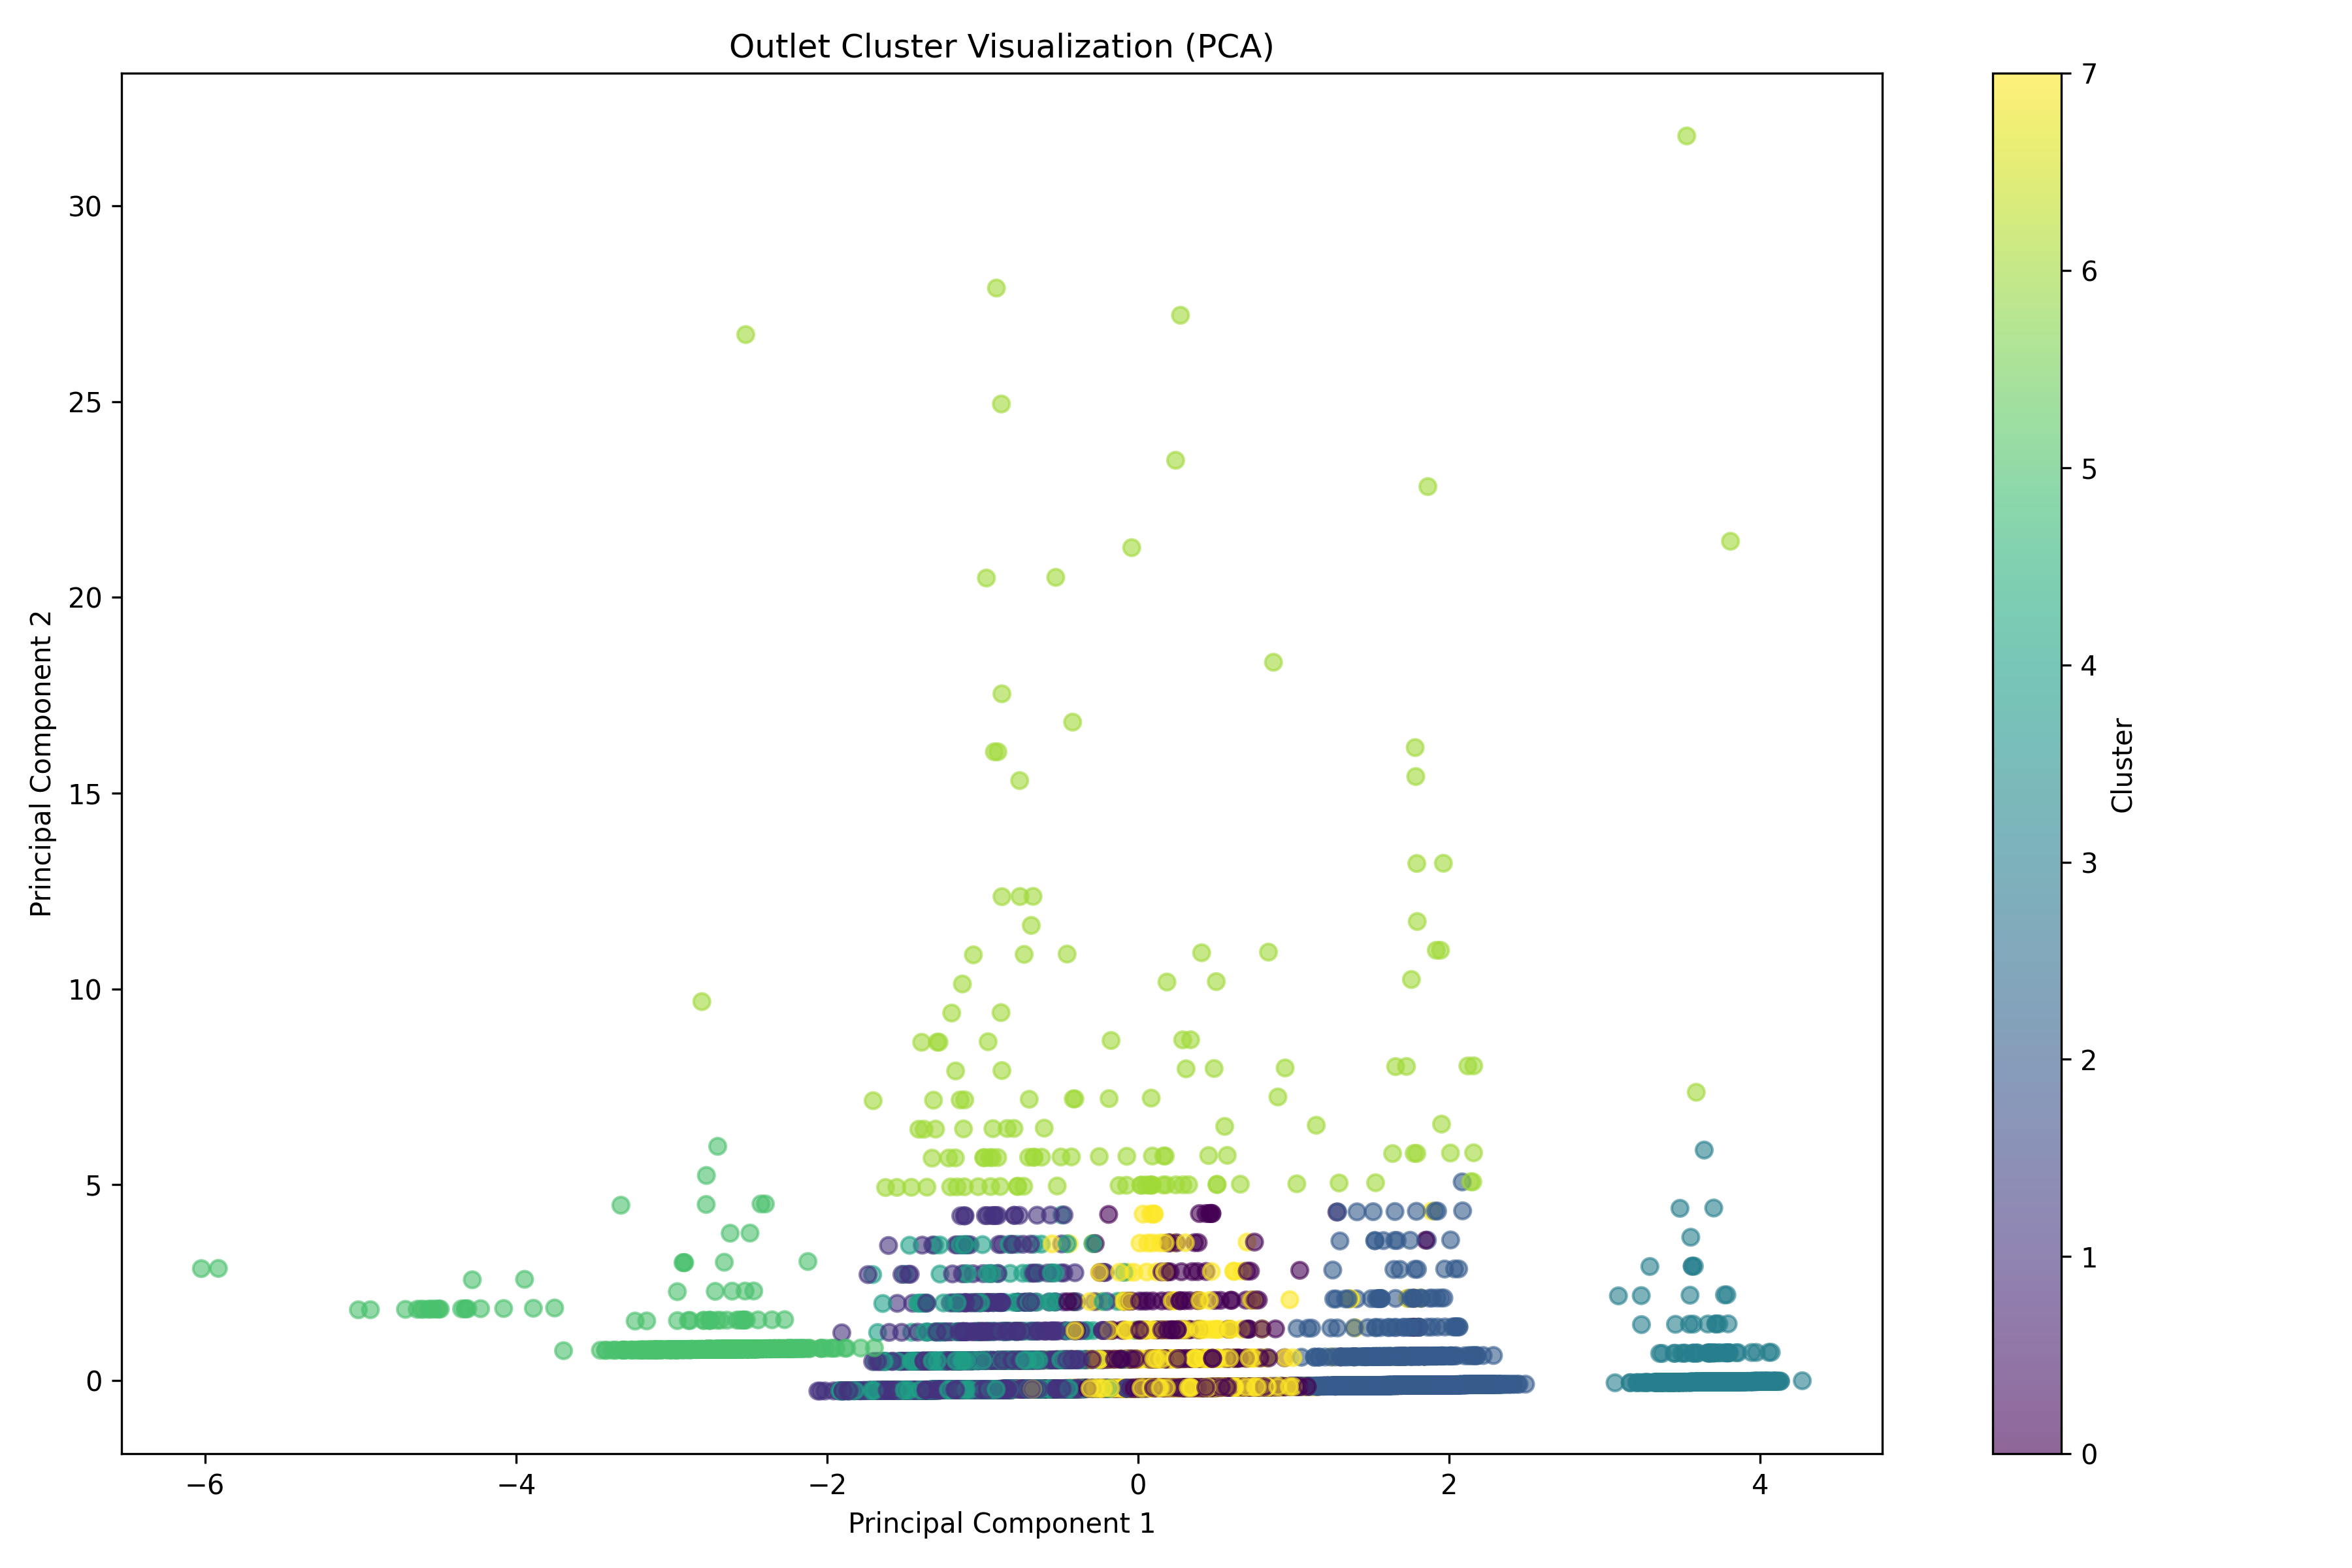
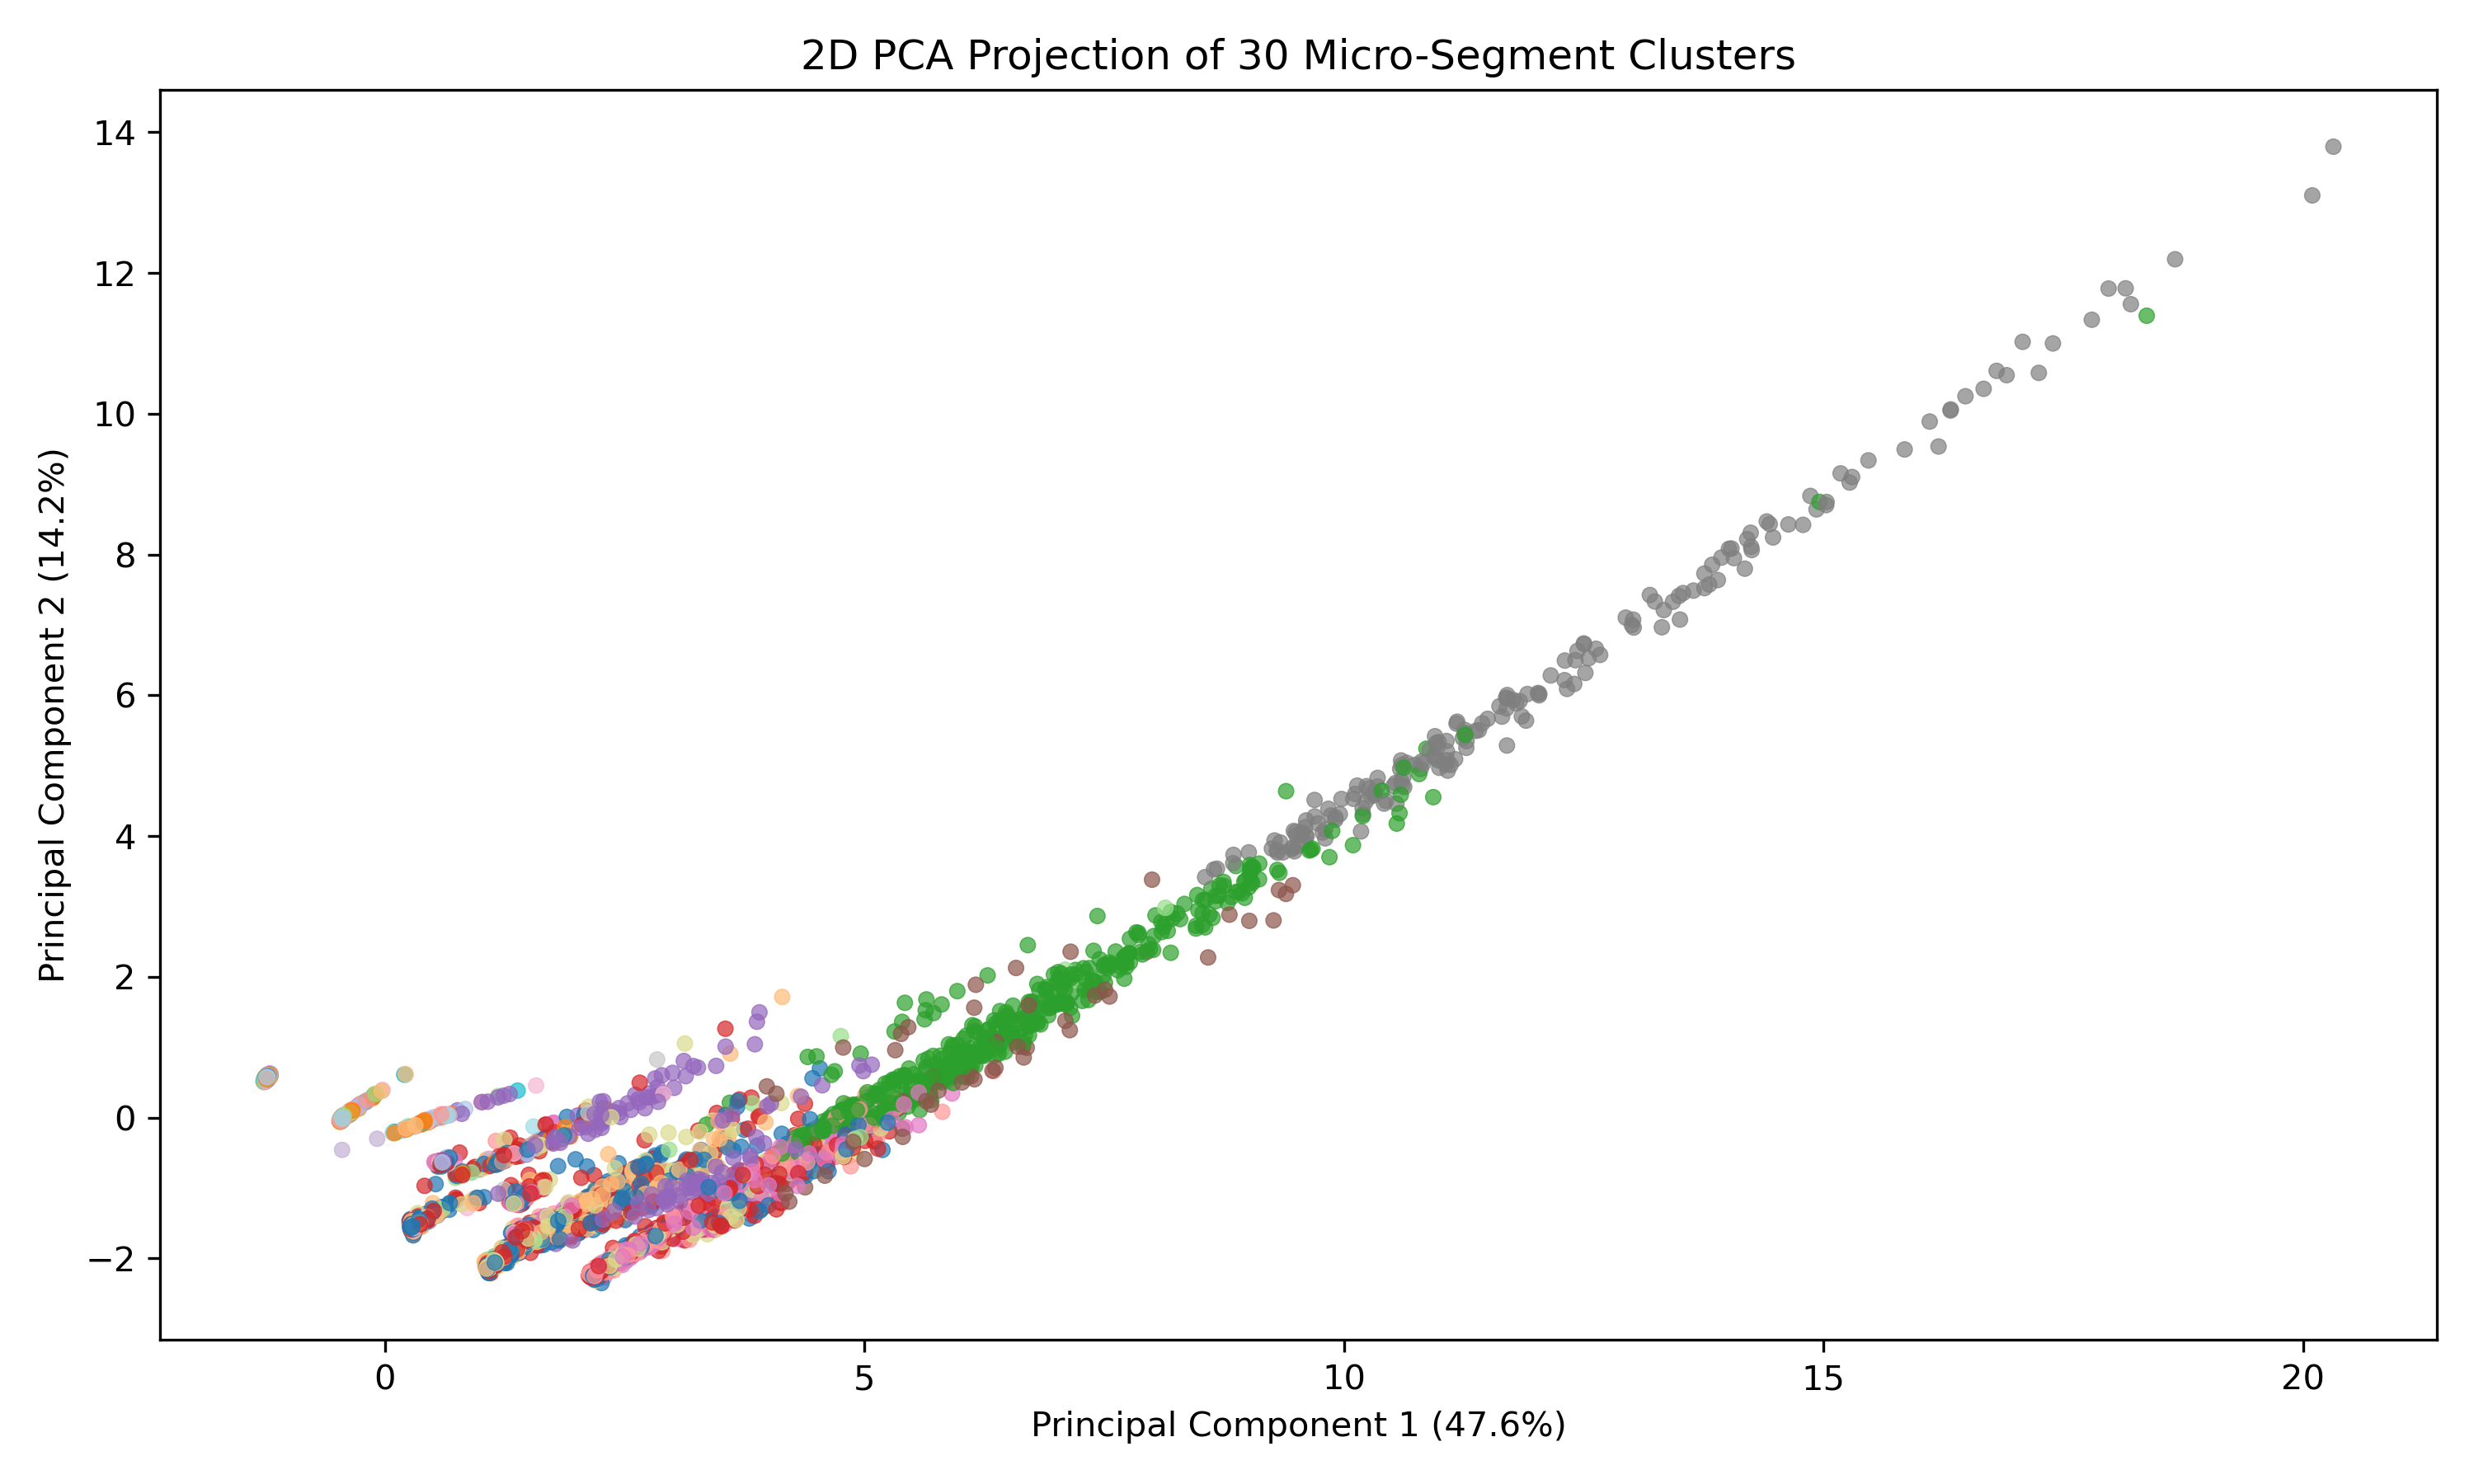
feat: integrate PCA clustering analysis and expand final report sections with improved data quality documentation

diff --git a/generate_true_pca.py b/generate_true_pca.py
@@ -1,0 +1,76 @@
+import pandas as pd
+import numpy as np
+from sklearn.decomposition import PCA
+from sklearn.preprocessing import StandardScaler
+import matplotlib.pyplot as plt
+import seaborn as sns
+from pathlib import Path
+
+print("Loading model baseline output...")
+# Load the data generated by baseline_kmeans.py which has Cluster_ID (k=30)
+df = pd.read_parquet("data/gold/model_baseline_output.parquet")
+
+# Features used for clustering (same as baseline_kmeans.py)
+feature_cols = [
+    "poi_total_catchment",
+    "poi_driver_catchment",
+    "poi_cannibal_risk",
+    "Tuition_Weekend_Surge",
+    "Tourist_Peak_Multiplier",
+    "Sports_Big_Match_Spike",
+    "Health_Catchment_Spike",
+    "Number_of_Weekends",
+    "Holiday_Count",
+    "Has_High_Footfall_Catchment",
+    "Has_Cannibalization_Risk"
+]
+
+print("Preprocessing and scaling...")
+# We must aggregate to Outlet level since PCA is per outlet
+outlet_df = df.groupby("Outlet_ID")[feature_cols].mean().fillna(0)
+
+# Add the cluster ID (it should be the same for the outlet)
+cluster_map = df.groupby("Outlet_ID")["Cluster_ID"].first()
+outlet_df = outlet_df.join(cluster_map)
+
+# Also get Total Volume to show bubble size or something (optional)
+vol_map = df.groupby("Outlet_ID")["Total_Volume"].sum()
+outlet_df = outlet_df.join(vol_map.rename("Total_Volume_Sum"))
+
+scaler = StandardScaler()
+X_scaled = scaler.fit_transform(outlet_df[feature_cols])
+
+print("Running PCA...")
+pca = PCA(n_components=2)
+X_pca = pca.fit_transform(X_scaled)
+
+outlet_df["PCA1"] = X_pca[:, 0]
+outlet_df["PCA2"] = X_pca[:, 1]
+
+print("Plotting...")
+plt.figure(figsize=(10, 6))
+
+# We have 30 clusters, so using a qualitative colormap
+scatter = sns.scatterplot(
+    data=outlet_df,
+    x="PCA1",
+    y="PCA2",
+    hue="Cluster_ID",
+    palette="tab20",  # tab20 has 20 colors, will repeat but looks good
+    s=20,
+    alpha=0.7,
+    edgecolor=None,
+    legend=False # 30 clusters is too many for a legend
+)
+
+plt.title("2D PCA Projection of 30 Micro-Segment Clusters")
+plt.xlabel(f"Principal Component 1 ({pca.explained_variance_ratio_[0]*100:.1f}%)")
+plt.ylabel(f"Principal Component 2 ({pca.explained_variance_ratio_[1]*100:.1f}%)")
+
+# Ensure output directory exists
+out_dir = Path("reports/figures")
+out_dir.mkdir(parents=True, exist_ok=True)
+
+plt.tight_layout()
+plt.savefig(out_dir / "cluster_pca.png", dpi=300)
+print(f"Saved true PCA plot to {out_dir / 'cluster_pca.png'}")

diff --git a/output/InsightAI_Final_Report.tex b/output/InsightAI_Final_Report.tex
@@ -45,12 +45,13 @@
 The first stage of our pipeline focused on Data Engineering (DE) checks and "Data Exorcism" by identifying and neutralizing artifacts in the SFA (Sales Force Automation) data that contaminate demand signals. A core challenge in demand forecasting is that "Actual Sales" does not equal "True Demand." Sales data is merely the intersection of demand and supply. 
 
 \subsection{System Anomalies: Ghosts and Negative Returns}
-We identified "System Ghosts" which are extreme variance spikes caused by data upload failures or negative return adjustments that dropped net monthly sales to exactly zero. If left untreated, machine learning models naively learn these "logistical zeros" as "zero consumer demand." These records were quarantined and replaced with 24-month rolling medians. To validate our cleaning process, we utilized the \textbf{Coefficient of Variation (CV)}. Outlets with an unnaturally low CV over 24 months were flagged as "Censored," indicating their sales were hitting a hard systemic capacity ceiling rather than fluctuating organically.
+To ensure the integrity of our pipeline, we built a comprehensive \textbf{Data Quality Framework} consisting of parameterized rules (e.g., \texttt{DQ\_001} for Duplicate Detection, \texttt{DQ\_003} for Referential Integrity). Through this framework, we identified "System Ghosts" which are extreme variance spikes caused by data upload failures or negative return adjustments that dropped net monthly sales to exactly zero. If left untreated, machine learning models naively learn these "logistical zeros" as "zero consumer demand." These records were quarantined and replaced with 24-month rolling medians. To validate our cleaning process, we utilized the \textbf{Coefficient of Variation (CV)}. Outlets with an unnaturally low CV over 24 months were flagged as "Censored," indicating their sales were hitting a hard systemic capacity ceiling rather than fluctuating organically.
 
 \begin{figure}[H]
     \centering
-    \includegraphics[width=0.65\linewidth]{plots/plot_1_ghost_exorcism.png}
+    \includegraphics[width=0.55\linewidth]{plots/plot_1_ghost_exorcism.png}
     \caption{\scriptsize Variance Stabilization. Demonstrating the stabilization of our target variable after removing extreme system-generated noise and wholesale sell-in spikes.}
+    \vspace{-1em}
 \end{figure}
 
 \subsection{Distributing Demand: Quarterly Smoothing}
@@ -86,8 +87,9 @@ Using K-Nearest Neighbors (KNN), we established a dual-radius catchment model (0
 
 \begin{figure}[H]
     \centering
-    \includegraphics[width=0.65\linewidth]{plots/plot_2_spatial_hotspots.png}
+    \includegraphics[width=0.55\linewidth]{plots/plot_2_spatial_hotspots.png}
     \caption{\scriptsize Spatial Catchment Hotspots. Visual proof of hidden high-density demand nodes in the Western Province mapped via Overture Data.}
+    \vspace{-1em}
 \end{figure}
 
 % --- SECTION 3: CAUSAL BASE LOGIC ---
@@ -99,8 +101,9 @@ Before predicting potential, the model must understand "Peer Behavior." We used 
 
 \begin{figure}[H]
     \centering
-    \includegraphics[width=0.6\linewidth]{plots/plot_5_elbow_method.png}
+    \includegraphics[width=0.5\linewidth]{plots/plot_5_elbow_method.png}
     \caption{\scriptsize The Elbow Method. Statistically validating our peer-group selection strategy.}
+    \vspace{-1em}
 \end{figure}
 
 \subsection{Methodology: LightGBM ($p90$) and Validation Strategy}
@@ -110,8 +113,9 @@ Standard regression algorithms (like OLS) predict the \textit{mean}, which in ou
 
 \begin{figure}[H]
     \centering
-    \includegraphics[width=0.65\linewidth]{plots/plot_3_feature_importance.png}
+    \includegraphics[width=0.55\linewidth]{plots/plot_3_feature_importance.png}
     \caption{\scriptsize LightGBM Information Gain. Proof that the model relies on causal spatial logic rather than simply memorizing historical sales.}
+    \vspace{-1em}
 \end{figure}
 
 \subsection{Validating the Uncapped Ceiling: Structural Safety Floor}
@@ -121,8 +125,9 @@ This logic ensures that the prediction is always grounded in an outlet's proven 
 
 \begin{figure}[H]
     \centering
-    \includegraphics[width=0.65\linewidth]{plots/plot_4_scatter_unconstrained.png}
+    \includegraphics[width=0.55\linewidth]{plots/plot_4_scatter_unconstrained.png}
     \caption{\scriptsize Breaking the Demand Ceiling. Actual sales (blue) hit systemic capacity ceilings, while our 90th-percentile architecture maps the latent potential (green stars) hiding above the constraint.}
+    \vspace{-1em}
 \end{figure}
 
 % --- SECTION 4: GENAI LOG & CONCLUSION ---
@@ -144,6 +149,16 @@ Team InsightAI utilized Generative AI strictly as an engineering accelerator to 
 
 At no point did GenAI replace human architectural decision-making. All core strategies including the decision to use $p90$ Quantile Regression, the specific cultural POI types targeted, and the collaborative filtering logic were strictly human-led.
 
+\section{Interactive Visualization and Strategic Delivery}
+To make our highly technical modeling actionable for business stakeholders, we developed an interactive \textbf{Folium Opportunity Heatmap} and a \textbf{Streamlit Dashboard}. The heatmap provides a geographic distribution of high-opportunity outlets across Sri Lanka, allowing business leaders to intuitively identify the most critical "Hidden Potential" targets. The Streamlit application provides real-time exploration of our cluster profiles and predicted demand ceilings, effectively bridging the gap between advanced econometrics and practical, on-the-ground sales execution.
+
+\begin{figure}[H]
+    \centering
+    \includegraphics[width=0.5\linewidth]{../reports/figures/cluster_pca.png}
+    \caption{\scriptsize 2D PCA Cluster Projection. High-resolution projection of the 30 micro-segments, illustrating the dense behavioral and spatial variance captured by our model's peer grouping strategy.}
+    \vspace{-1em}
+\end{figure}
+
 \section{Conclusion and Impact Summary}
 Team InsightAI has successfully re-engineered the approach to FMCG demand forecasting by moving beyond traditional time-series methods that merely memorize supply chain bottlenecks. 
 
@@ -151,7 +166,7 @@ Our comprehensive methodology establishes a clear, causal link between local phy
 
 This submission outlines a production-ready blueprint that is both mathematically rigorous and firmly rooted in the physical realities of the Sri Lankan retail landscape. It provides a direct path to identifying and capturing latent growth potential across the distribution network in 2026.
 
-\vspace{1.5in}
+\vspace{0.2in}
 \begin{center}
     \textbf{End of Technical Submission}
 \end{center}